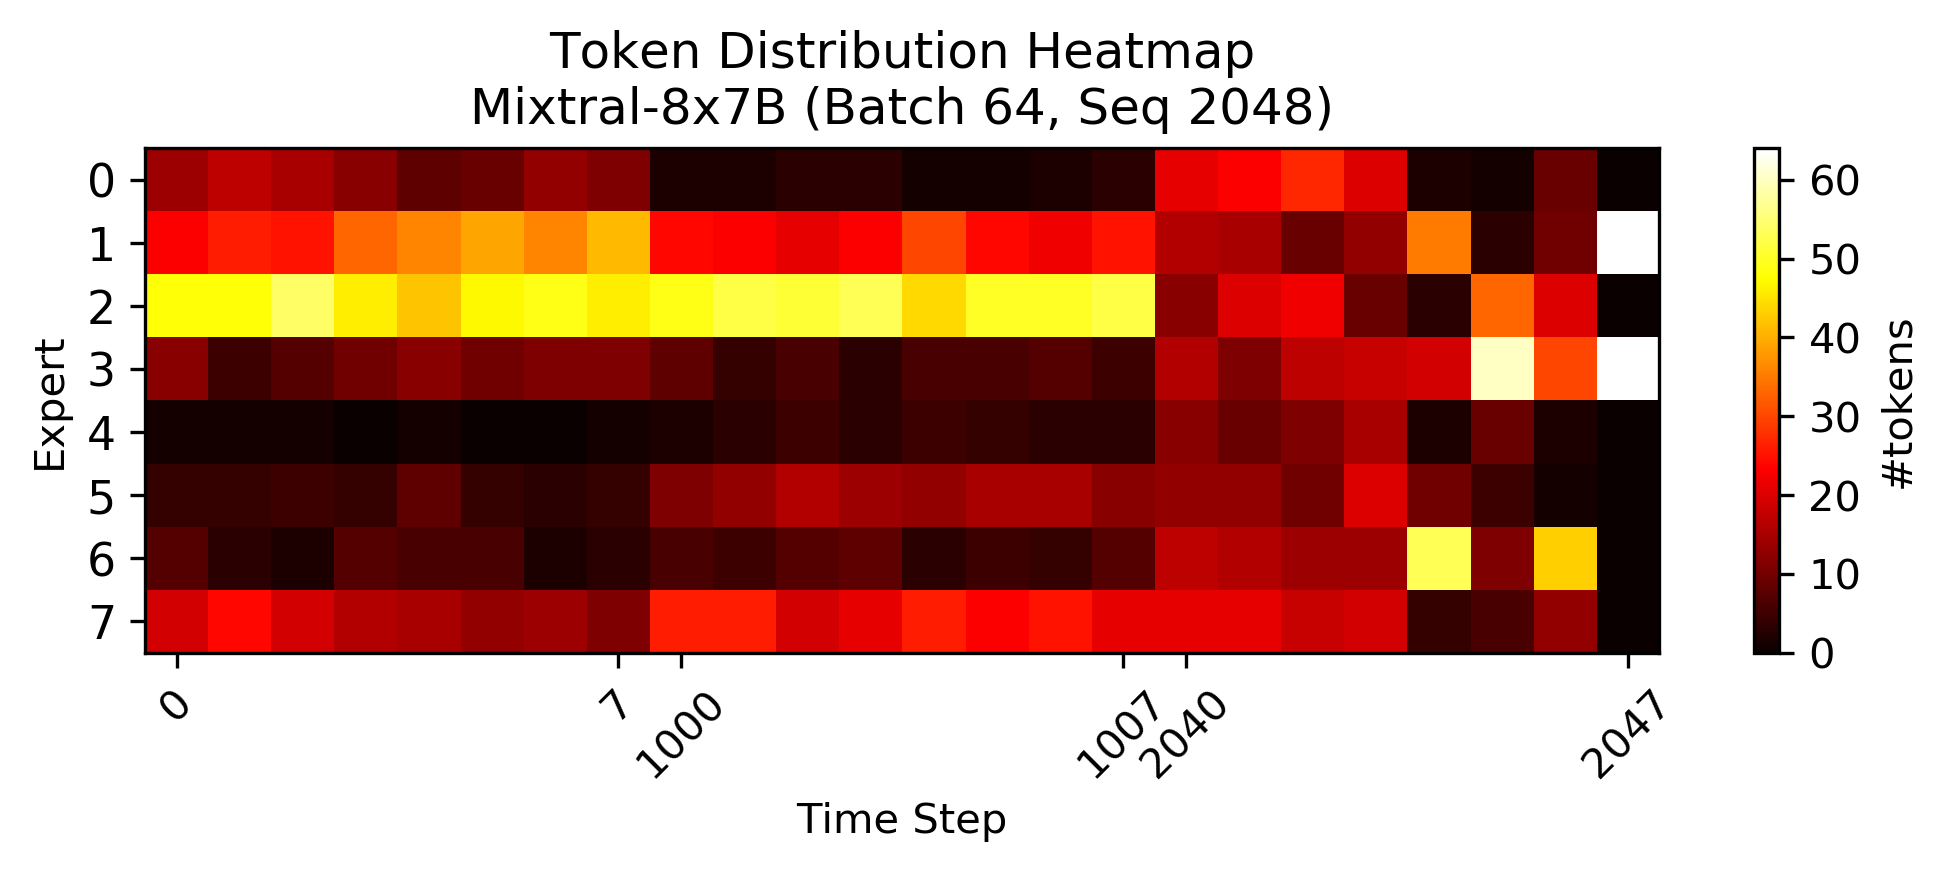
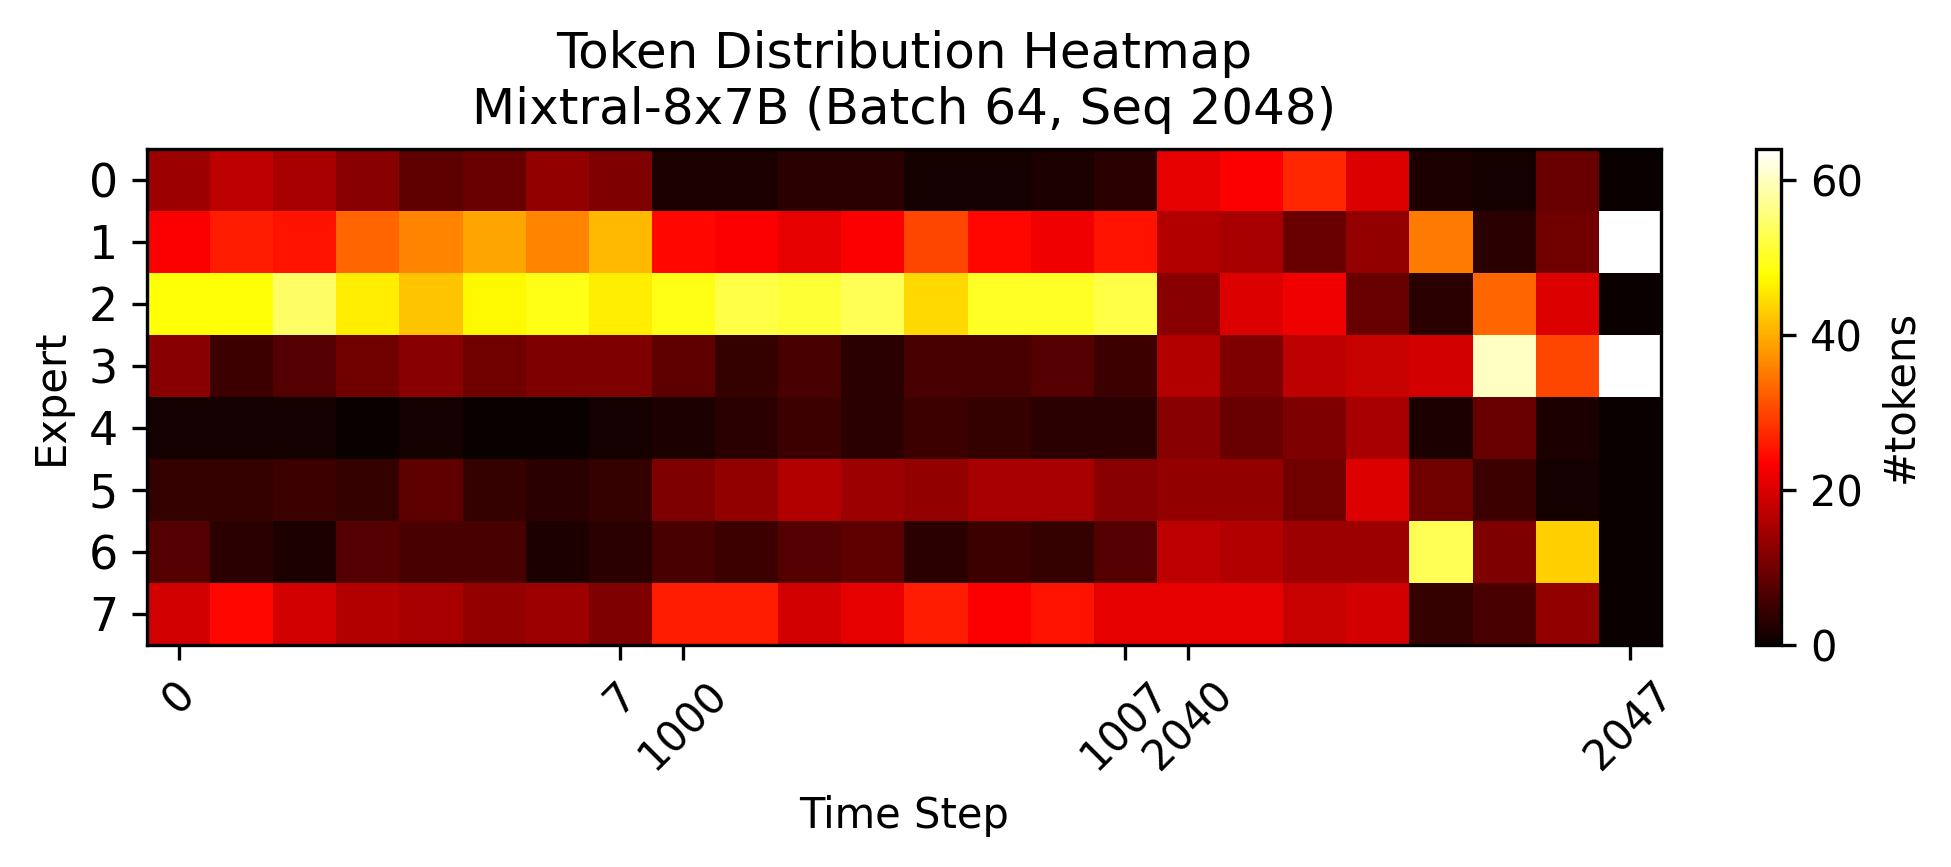
quantized experts offload

diff --git a/acc_exp/model.py b/acc_exp/model.py
@@ -23,6 +23,8 @@ def select_experts_to_quantize(
         criteria: QuantizationCriteria = QuantizationCriteria.RANDOM,
         custom_fn=None
     ):
+    # print(topk_indices)
+    # print(topk_weights)
 
     unique_experts = topk_indices.unique().tolist()
     num_to_quantize = int(len(unique_experts) * quantize_ratio)
@@ -70,6 +72,7 @@ def select_experts_to_quantize(
     else:
         raise ValueError(f"Unknown criteria: {criteria}")
     
+    # print(f"Selected experts to quantize: {experts_to_quantize}")
     return list(experts_to_quantize)
 
 class MultiPrecisionMoEModel:
@@ -79,6 +82,7 @@ class MultiPrecisionMoEModel:
             cache_dir="/models/",
             quantization_dtypes=[Precision.MXFP8],
             quantized_cache_dir="/models/quantized_experts/",
+            offload=True,
             force_quantization=True,
             autostore_quantized_experts=False
         ):
@@ -88,6 +92,7 @@ class MultiPrecisionMoEModel:
 
         quantized_cache_dir = Path(quantized_cache_dir) / model_name.replace("/", "_")
         quantized_cache_dir.mkdir(parents=True, exist_ok=True)
+        self.offload = offload
 
         print("Downloading tokenizer...")
         self.tokenizer = AutoTokenizer.from_pretrained(
@@ -115,8 +120,8 @@ class MultiPrecisionMoEModel:
             self._load_quantized_experts(quantized_cache_dir)
         if not self.quantized_experts:
             self._quantize_experts()
-        if autostore_quantized_experts:
-            self._save_quantized_experts(quantized_cache_dir)
+            if autostore_quantized_experts:
+                self._save_quantized_experts(quantized_cache_dir)
         
         self._hook_handles = []
 
@@ -141,6 +146,7 @@ class MultiPrecisionMoEModel:
                 quant_linear = create_fake_quantized_module(
                     module, precision=precision
                 )
+                quant_linear.to(device="cpu" if self.offload else "cuda")
 
                 self.quantized_experts[precision.value][(layer_id, expert_id)][proj_type] = quant_linear
         print("Quantization of experts complete.")
@@ -148,7 +154,7 @@ class MultiPrecisionMoEModel:
     def _load_quantized_experts(self, quantized_cache_dir: Path):
         quantized_experts_path = quantized_cache_dir / "quantized_experts.pt"
         if quantized_experts_path.exists():
-            self.quantized_experts = torch.load(quantized_experts_path)
+            self.quantized_experts = torch.load(quantized_experts_path, weights_only=False)
             print("Loaded quantized experts from cache.")
         else:
             print("No cached quantized experts found.")
@@ -172,12 +178,15 @@ class MultiPrecisionMoEModel:
             quant_expert["up_proj"],
             quant_expert["down_proj"]
         )
+        gate_proj.to(device=hidden_states.device)
+        up_proj.to(device=hidden_states.device)
+        down_proj.to(device=hidden_states.device)
+
         gate_out = gate_proj(hidden_states)
         up_out = up_proj(hidden_states)
 
-        assert isinstance(self.model.model.layers[0].mlp.experts[0].act_fn, torch.nn.SiLU), \
-            f"Expected SiLU activation, got {type(self.model.model.layers[0].mlp.experts[0].act_fn)}"
-        activated = torch.nn.functional.silu(gate_out) * up_out
+        act_fn = self.model.model.layers[0].mlp.experts[0].act_fn
+        activated = act_fn(gate_out) * up_out
         
         output = down_proj(activated)
         return output
@@ -187,37 +196,39 @@ class MultiPrecisionMoEModel:
             quantize_ratio: float=0.5,
             criteria: QuantizationCriteria=QuantizationCriteria.RANDOM,
             custom_fn=None,
-            experts_to_quantize=None
+            # experts_to_quantize=None
         ):
         moe_layer = self.model.model.layers[layer_id].mlp
         num_experts_per_tok = self.model.config.num_experts_per_tok
         num_experts = self.model.config.num_experts
         
         def moe_hook(module, input, output):
+            # nonlocal experts_to_quantize
+
             # Handle tuple output
             if isinstance(output, tuple):
                 hidden_output, rest = output[0], output[1:]
             else:
                 hidden_output, rest = output, None
-            
+
             hidden_states = input[0]  # (batch, seq_len, hidden_dim)
             batch_size, seq_len, hidden_dim = hidden_states.shape
-            
+
             # Get router decisions
             gate = module.gate
             router_logits = gate(hidden_states)  # (batch, seq_len, num_experts)
             topk_weights, topk_indices = torch.topk(router_logits, num_experts_per_tok, dim=-1)
             topk_weights = torch.softmax(topk_weights, dim=-1)
-            
-            if not experts_to_quantize:
-                experts_to_quantize = select_experts_to_quantize(
-                    topk_indices=topk_indices,
-                    topk_weights=topk_weights,
-                    quantize_ratio=quantize_ratio,
-                    criteria=criteria,
-                    num_experts=num_experts,
-                    custom_fn=custom_fn,
-                )
+
+            # if experts_to_quantize is not None:
+            experts_to_quantize = select_experts_to_quantize(
+                topk_indices=topk_indices,
+                topk_weights=topk_weights,
+                quantize_ratio=quantize_ratio,
+                criteria=criteria,
+                num_experts=num_experts,
+                custom_fn=custom_fn,
+            )
             
             if not experts_to_quantize:
                 return output
@@ -233,8 +244,9 @@ class MultiPrecisionMoEModel:
                     for pos in range(num_experts_per_tok):
                         expert_id = token_topk_indices[pos].item()
                         
+                        # print(f"Layer {layer_id}, Token ({b},{s}), Expert {expert_id}, Experts to quantize: {experts_to_quantize}")
                         if expert_id not in experts_to_quantize:
-                            print(f"Skipping expert {expert_id}: Not in quantization list.")
+                            print(f"Skipping expert {layer_id}-{expert_id}: Not in quantization list.")
                             continue
                         
                         expert_weight = token_topk_weights[pos]
@@ -264,26 +276,6 @@ class MultiPrecisionMoEModel:
         print(f"Registered layer override hook for layer {layer_id} with precision {precision.value}.")
         
         return handle
-
-    def register_all_layers(
-            self, precision: Precision=Precision.MXFP8, 
-            layer_hooks=True,
-            expert_hooks=False,
-            layer_ids=None, expert_ids=None
-        ):
-        layer_ids = layer_ids if layer_ids is not None else range(len(self.model.model.layers))
-        layer_hooks = not expert_hooks
-        if layer_hooks:
-            for layer_id in layer_ids:
-                self.register_layer_override_hooks(layer_id, precision)
-            print("Registered all layer override hooks.")
-        if expert_hooks:
-            for layer_id in layer_ids:
-                num_experts = self.model.config.num_experts
-                expert_ids = expert_ids if expert_ids is not None else range(num_experts)
-                for expert_id in expert_ids:
-                    self.register_expert_override_hook(layer_id, expert_id, precision)
-            print("Registered all expert override hooks.")
 
     def register_expert_override_hook(self, layer_id: int, expert_id: int, precision: Precision):
         key = (layer_id, expert_id)
@@ -320,18 +312,74 @@ class MultiPrecisionMoEModel:
                     module._forward_pre_hooks.clear()
             print("Done.")
 
+    def quantize_all_experts(
+            self, precision: Precision=Precision.MXFP8,
+            layer_ids=None, expert_ids=None
+        ):
+        layer_ids = layer_ids if layer_ids is not None else range(len(self.model.model.layers))
+        for layer_id in layer_ids:
+            num_experts = self.model.config.num_experts
+            expert_ids = expert_ids if expert_ids is not None else range(num_experts)
+            for expert_id in expert_ids:
+                self.register_expert_override_hook(layer_id, expert_id, precision)
+        print("Registered all expert override hooks.")
+
+    def quantize_all_layers(
+            self, precision: Precision=Precision.MXFP8, quantize_ratio: float=0.5,
+            layer_ids=None, expert_ids=None
+        ):
+        layer_ids = layer_ids if layer_ids is not None else range(len(self.model.model.layers))
+        for layer_id in layer_ids:
+            self.register_layer_override_hooks(layer_id, precision, quantize_ratio)
+        print("Registered all layer override hooks.")
+
+    def generate(self, prompts, max_new_tokens=20):
+        inputs = self.tokenizer(
+            prompts, return_tensors="pt", padding=True, padding_side="left"
+        ).to(self.model.device)
+        outputs = self.model.generate(**inputs, max_new_tokens=max_new_tokens)
+        return self.tokenizer.batch_decode(outputs, skip_special_tokens=True)
+
+
 if __name__ == "__main__":
     model = MultiPrecisionMoEModel(
-        model_name="allenai/OLMoE-1B-7B-0924",
-        quantization_dtypes=[Precision.MXFP8, Precision.MXFP4]
+        model_name="Qwen/Qwen3-30B-A3B",
+        quantization_dtypes=[
+            # Precision.MXFP8, 
+            Precision.MXFP4
+        ],
+        force_quantization=False,
+        autostore_quantized_experts=True
     )
-    print("Model and quantized experts ready.")
-    sample_layer, sample_expert = 0, 0
-    print(f"Sample quantized expert for layer {sample_layer}, expert {sample_expert}:")
-    print(model.quantized_experts[Precision.MXFP8.value][(sample_layer, sample_expert)]["down_proj"].weight)
-    print(model.quantized_experts[Precision.MXFP4.value][(sample_layer, sample_expert)]["down_proj"].weight)
-    print("Done.")
 
-    # TODO:
-    #   1. Add more tests
-    #   2. Test with Qwen
+    r = []
+    # r += model.generate([
+    #         "The quick brown fox", 
+    #         "Once upon a time in a land far away"
+    #     ], max_new_tokens=50)
+    # model.quantize_all_layers(precision=Precision.MXFP4, quantize_ratio=1.0)
+    # r += model.generate([
+    #         "The quick brown fox", 
+    #         "Once upon a time in a land far away"
+    #     ], max_new_tokens=50)
+    # model.clear_hooks()
+    # r += model.generate([
+    #         "The quick brown fox", 
+    #         "Once upon a time in a land far away"
+    #     ], max_new_tokens=50)
+    model.quantize_all_layers(precision=Precision.MXFP8, quantize_ratio=1.0)
+    r += model.generate([
+            "The quick brown fox", 
+            "Once upon a time in a land far away"
+        ], max_new_tokens=100)
+    model.clear_hooks()
+    r += model.generate([
+            "The quick brown fox", 
+            "Once upon a time in a land far away"
+        ], max_new_tokens=100)
+    
+    for res in r:
+        print("=======")
+        print(res)
+        print("=======")
+        print()

diff --git a/benchmark/load_imbalance/heapmap_itr_tokencount.py b/benchmark/load_imbalance/heapmap_itr_tokencount.py
@@ -1,0 +1,17 @@
+import numpy as np
+
+data = np.load('all_layers_counts.npy')
+
+selected_pass = 9
+selected_layer = 23
+
+iterations = [7, 1007, 2046]
+
+print("Token counts per expert:")
+print("=" * 50)
+
+for it in iterations:
+    counts = data[selected_pass, selected_layer, it, :]
+    print(f"\nIteration {it}:")
+    print(f"  Expert tokens: {counts}")
+    print(f"  Total: {counts.sum()}")
